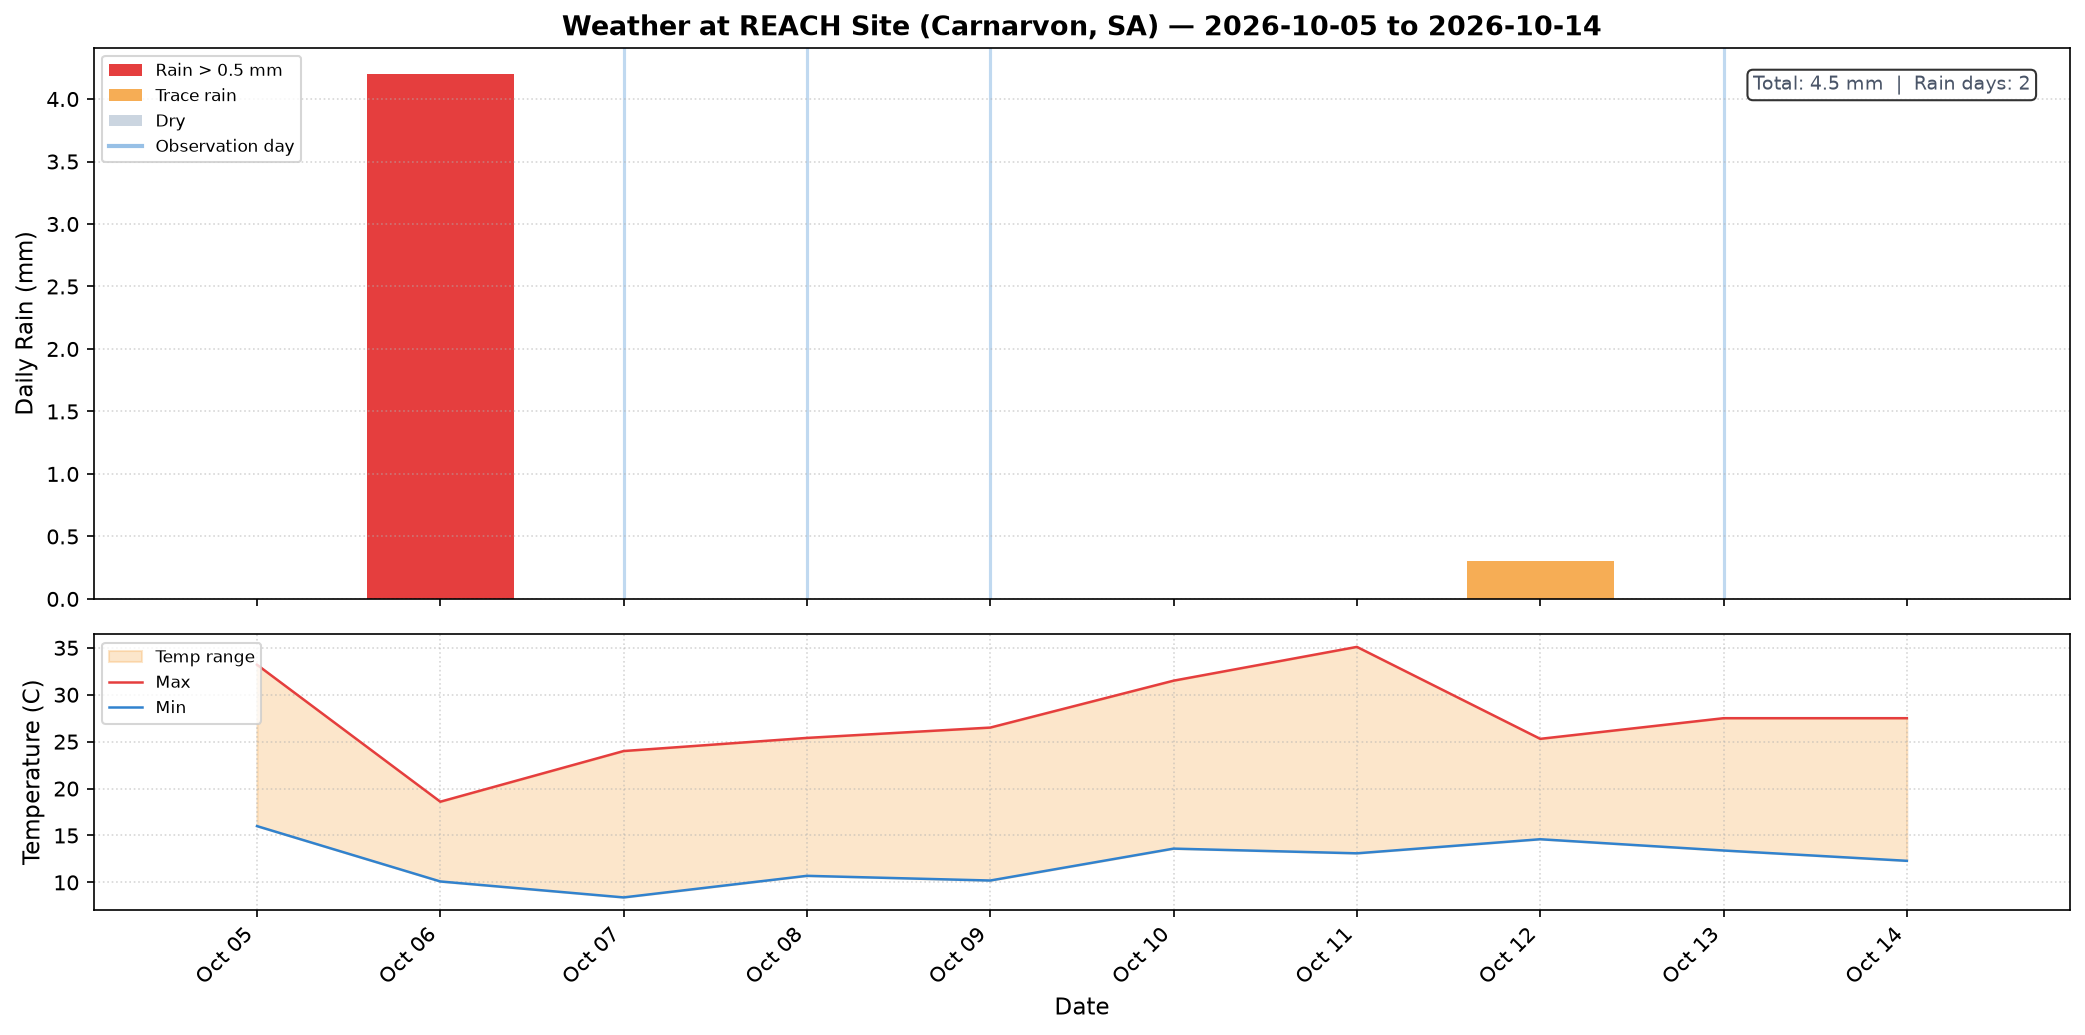
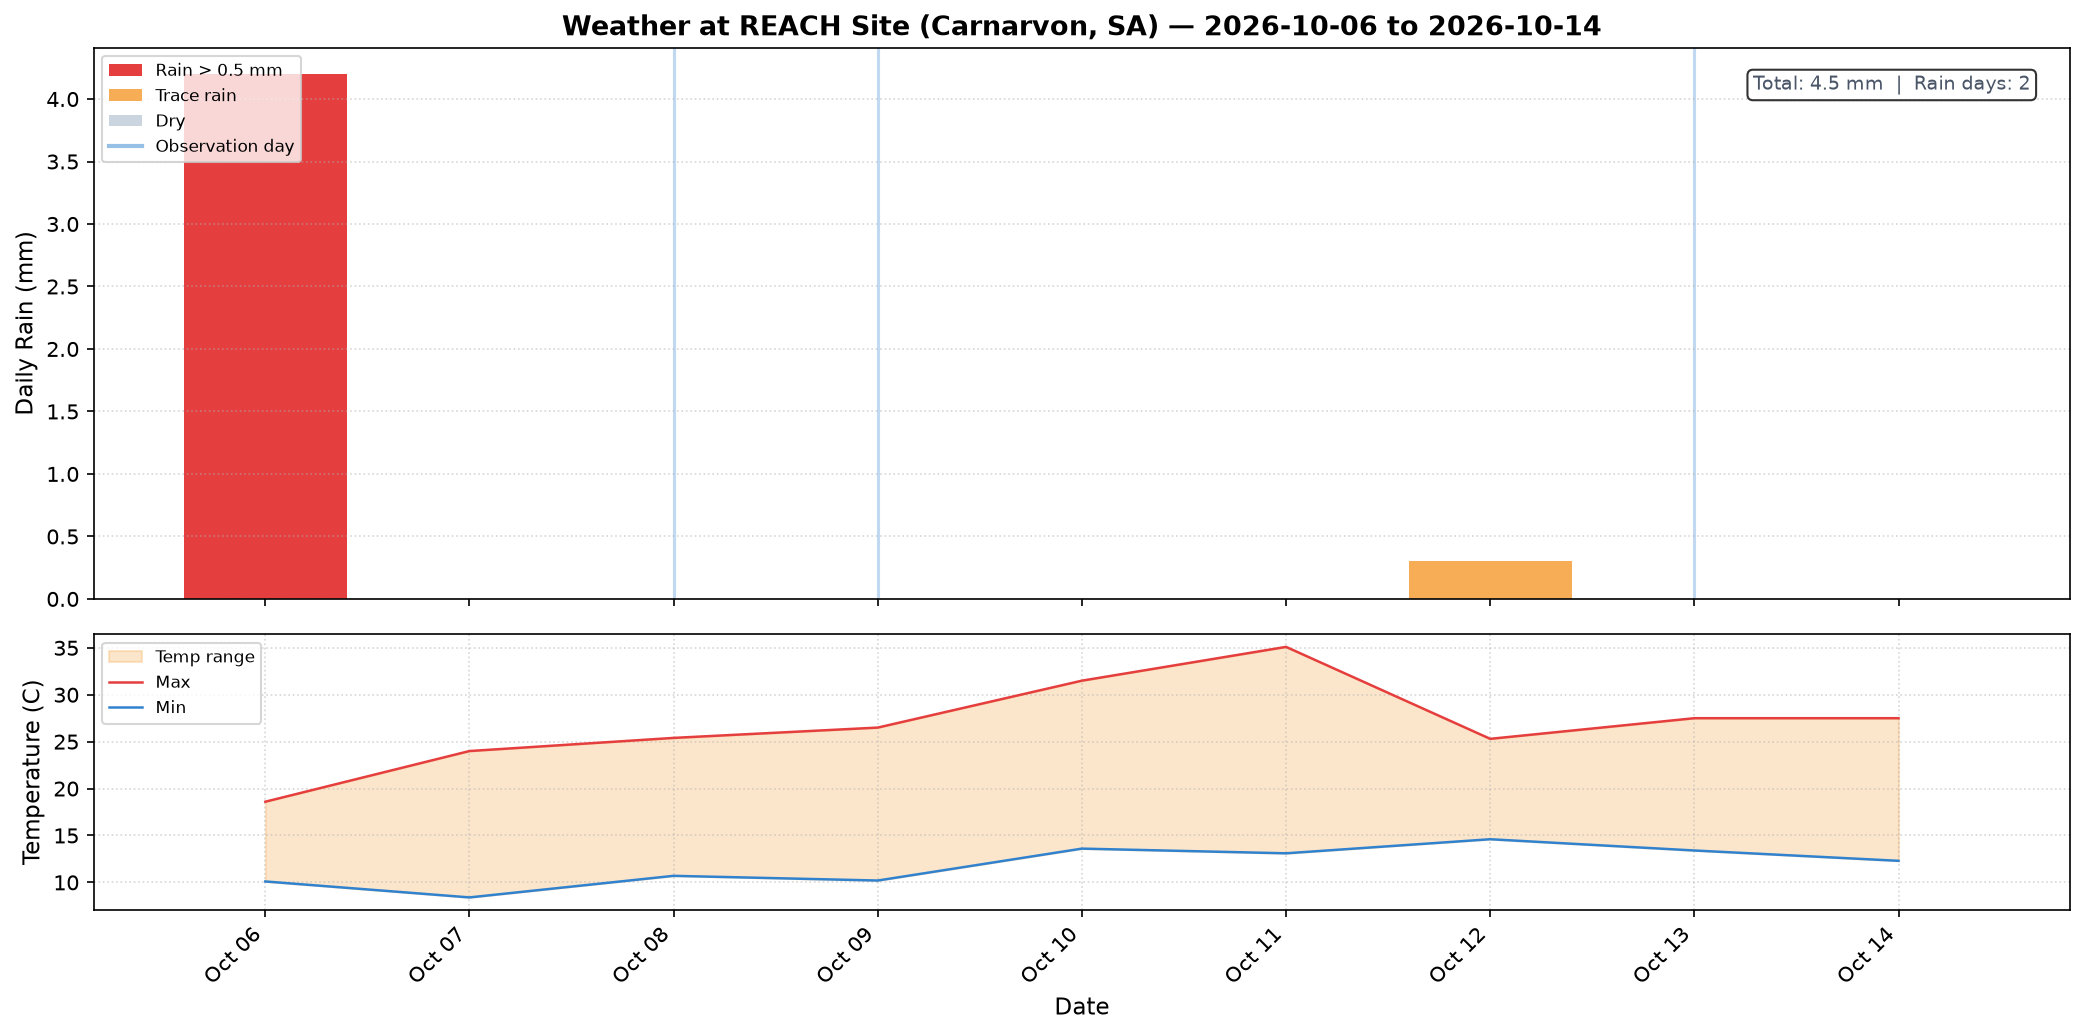
Daily dashboard update 2026-11-07 06:07 UTC

diff --git a/2026_10_13/index.html b/2026_10_13/index.html
@@ -206,7 +206,7 @@
 
   <div class="header">
     <h1>REACH Instrument Monitoring Dashboard</h1>
-    <div class="update-time">Last updated: 2026-11-06 06:07 UTC</div>
+    <div class="update-time">Last updated: 2026-11-07 06:07 UTC</div>
 
     <div class="date-nav">
       <label>Viewing date:</label>
@@ -246,7 +246,7 @@
 
   <div class="section">
     <h2>Site Weather (Carnarvon, SA)</h2>
-    <div class="dates-label">Rainfall and temperature — 10 days shown, 4.5 mm total rain (Open-Meteo)</div>
+    <div class="dates-label">Rainfall and temperature — 9 days shown, 4.5 mm total rain (Open-Meteo)</div>
     <img class="plot-img" src="plots/weather.png"
          alt="Site Weather" loading="lazy">
   </div>
